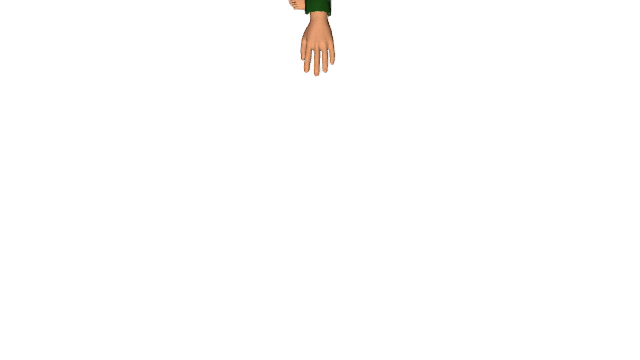
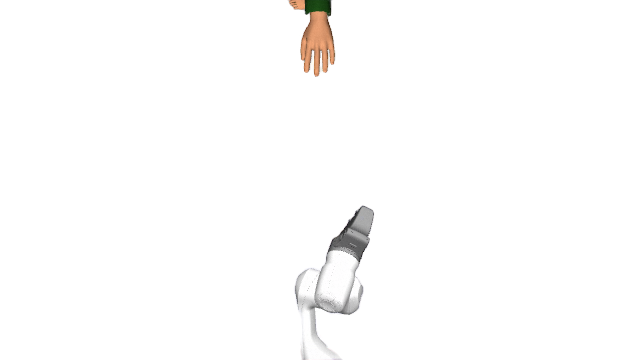
dirty transform updated

Changed region(s): [[0.4375, 0.55, 0.5938, 1.0]]

diff --git a/ros_1/catkin_ws/src/my_package/src/test_dirty_tracking.py b/ros_1/catkin_ws/src/my_package/src/test_dirty_tracking.py
@@ -2,12 +2,15 @@
 import rospy
 from sensor_msgs.msg import Image, CameraInfo
 from std_msgs.msg import UInt32MultiArray, Float32MultiArray
+import tf2_ros
+import tf
+
 import os
 import numpy as np
 import matplotlib.pyplot as plt
 import cv2 as cv
 
-from utils import image2array, image_file_to_tensor, transform_pixels2camera
+from utils import transform_pixels2camera, transform_points
 
 # OpenCV bridge for image messages
 from cv_bridge import CvBridge
@@ -19,8 +22,11 @@ MATTED_TOPIC = '/image_raw_matted'
 # Topic on which publish dirty coordinates
 DIRTY2D_TOPIC = '/dirty2d'
 DIRTY3D_IMG2CAMERA_TOPIC = '/dirty2camera'
+DIRTY3D_IMG2WORLD_TOPIC = '/dirty2world'
+
 pub_dirty2d = rospy.Publisher(DIRTY2D_TOPIC, UInt32MultiArray, queue_size=10)
 pub_dirty3d_img2camera = rospy.Publisher(DIRTY3D_IMG2CAMERA_TOPIC, Float32MultiArray, queue_size=10)
+pub_dirty3d_img2world = rospy.Publisher(DIRTY3D_IMG2WORLD_TOPIC, Float32MultiArray, queue_size=10)
 
 OUTPUTS_DIR = os.path.join('..', 'outputs')
 
@@ -33,6 +39,8 @@ def callback(image):
 	bgra_cv = bridge.imgmsg_to_cv2(image, desired_encoding='passthrough')
 	
 	alpha = bgra_cv[:,:,-1]
+	cv.imwrite(os.path.join(OUTPUTS_DIR, 'alpha_image_raw_matted.jpg'), alpha)
+
 	# 2D coordinates where we need to clean up. 
 	# The array has shape (h, w) while we need x, y coordinates,so we have to swap axes
 	dirty_2d = np.argwhere((alpha != 0)).astype('int32')
@@ -41,11 +49,33 @@ def callback(image):
 	
 	# Getting camera info
 	camera_info = rospy.wait_for_message('/camera_info', CameraInfo)
-	d = 1.55 - 0.1  # Distance of camera from table: height(camera) - height(table)
+	depth = 1.55 - 0.1  # Distance of camera from table: height(camera) - height(table)
 
 	# Transforming 2D dirty pixels to 3D coordinates w.r.t. camera
-	dirty2camera = transform_pixels2camera(pixels=dirty_2d, camera_info=camera_info, distance=d)
+	dirty2camera = transform_pixels2camera(pixels=dirty_2d, camera_info=camera_info, depth=depth)
 	print(f"3D coordinates of pixels w.r.t. camera frame ({dirty2camera.shape}):\n", dirty2camera)
+
+	# Transforming 3D coordinates w.r.t. world
+	try:
+		# Once the transform listener is created, it starts receiving tf2 transformations over the wire, 
+		# and buffers them for up to 10 seconds
+		tf2_buffer = tf2_ros.Buffer()
+		tf2_listener = tf2_ros.TransformListener(tf2_buffer)
+
+		# Getting camera w.r.t. world as TransformStamped.transform
+		tf2_camera2world =  tf2_buffer.lookup_transform(
+			'camera_link', 'world', time=rospy.Time(0), timeout=rospy.Duration(2)).transform
+
+		print("- Getting transformation of camera frame w.r.t. world...\n", tf2_camera2world)
+		translation, quaternions = tf2_camera2world.translation, tf2_camera2world.rotation
+
+		# Transforming 3D coordinates w.r.t. world: tf implementation
+		dirty2world = transform_points(points=dirty2camera, ref_frame='world', init_frame='camera_link')
+		print(f"3D coordinates of pixels w.r.t. world frame ({dirty2world.shape}):\n", dirty2world)
+
+	except Exception as e:
+		print("WARNING! Can't compute the transformation of dirty w.r.t. world!\n", e)
+	
 
 	try:
 		# Reading and publishing dirty coordinates
@@ -57,11 +87,17 @@ def callback(image):
 		pub_dirty2d.publish(msg)
 		print("Dirty 2D coordinates published successfully on ", DIRTY2D_TOPIC)
 
-		# Publishing 3D coordinates
+		# Publishing 3D coordinates w.r.t. camera
 		msg = Float32MultiArray()
 		msg.data = dirty2camera.tolist()
 		pub_dirty3d_img2camera.publish(msg)
 		print("Dirty 3D coordinates w.r.t. camera frame successfully published on ", DIRTY3D_IMG2CAMERA_TOPIC)
+
+		# Publishing 3D coordinates w.r.t. world
+		msg = Float32MultiArray()
+		msg.data = dirty2world.tolist()
+		pub_dirty3d_img2world.publish(msg)
+		print("Dirty 3D coordinates w.r.t. camera frame successfully published on ", DIRTY3D_IMG2WORLD_TOPIC)
 
 
 		print("-----------------------------------")

diff --git a/ros_1/catkin_ws/src/my_package/src/utils.py b/ros_1/catkin_ws/src/my_package/src/utils.py
@@ -4,6 +4,10 @@ import numpy as np
 import torch
 from torchvision.transforms.functional import to_pil_image, to_tensor
 
+import rospy
+import tf
+from geometry_msgs.msg import PointStamped
+
 
 def image_file_to_tensor(path_to_file, precision=torch.float32, device='cpu'):
     # Read the image
@@ -37,7 +41,7 @@ def image2array(image, image_type='rgb'):
     return output
 
 
-def transform_pixels2camera(pixels, camera_info, distance):
+def transform_pixels2camera(pixels, camera_info, depth):
     """
     #############################################################
     # Method to transform 2D image pixels into 3D w.r.t. camera #
@@ -52,7 +56,8 @@ def transform_pixels2camera(pixels, camera_info, distance):
     K = np.array(camera_info.K, dtype=np.float32).reshape((3, 3))			# Intrinsic camera matrix
     R = np.array(camera_info.R, dtype=np.float32).reshape((3, 3))		    # Rotation matrix
     P = np.array(camera_info.P, dtype=np.float32).reshape((3, 4))			# Projection camera matrix
-    f =  np.array([K[0][0], K[1][1]], dtype=np.float32)			            # Focal lenght [fx, fy]
+    f = (K[0][0], K[1][1])  		                                        # Focal lenght [fx, fy]
+    c = (K[0][2], K[1][2])                                                  # Principal point [cx, cy]
     t = np.array([P[0][3], P[1][3], P[2][3]], dtype=np.float32)	    		# Translation [tx, ty, tz]
 
     # Homogeneous pixel coordinates
@@ -74,16 +79,40 @@ def transform_pixels2camera(pixels, camera_info, distance):
         unit_vector = vector / np.linalg.norm(vector)
         # Point scaled along this ray
         p3D = cam_world + distance * unit_vector
+        output.append(p3D.tolist())
         """
 
-        ### Simpler and more accurate approach: Deproject the pixels into 3D points in the camera frame
-        ### using the camera matrix and multiply z by depth
-        # Inspired by: https://stackoverflow.com/questions/50596347/measure-real-size-of-object-with-calibrated-camera-opencv-c
-        pc = np.linalg.inv(K) @ p 
-        pc[2] = pc[2] * distance
-        p3D = pc
-        
-        output.append(p3D.tolist())
+        ### Simpler and more accurate approach, knowing the exact depth
+        # Inspired by https://github.com/IntelRealSense/librealsense/wiki/Projection-in-RealSense-SDK-2.0
+        X = (p[0] - c[0])/f[0] * depth
+        Y = (p[1] - c[1])/f[1] * depth
+        p3D = [X, Y, depth]
+        output.append(p3D)
+
     output = np.array(output, dtype=np.float32)
 
+    return output
+
+
+def transform_points(points, ref_frame, init_frame):
+    # WARNING! rospy.init_node() must be called before this function!
+
+    tf_listener = tf.TransformListener()
+    tf_camera2world = tf_listener.waitForTransform('world', 'camera_link', rospy.Time(0), rospy.Duration(5))
+
+    transformed = []
+    for p in points:
+        point = PointStamped()
+        point.header.frame_id = 'camera_link'
+        point.header.stamp = rospy.Time()
+
+        point.point.x = p[0]
+        point.point.y = p[1]
+        point.point.z = p[2]
+
+        tp = tf_listener.transformPoint('world', point).point
+
+        transformed.append([tp.x, tp.y, tp.z])
+
+    output = np.array(transformed, dtype=np.float32)
     return output

diff --git a/ros_1/catkin_ws/src/my_package/src/test_camera.py b/ros_1/catkin_ws/src/my_package/src/test_camera.py
@@ -52,7 +52,7 @@ def callback(image):
 	bgr = image_file_to_tensor(os.path.join(TEST_IMAGES_DIR, "background.png"))
 	# The following input is ONLY FOR BACKGROUND MATTING TESTING!
 	# src = image_file_to_tensor(os.path.join(TEST_IMAGES_DIR, 'dirty_0.png'))
-	# The followin input is for PRODUCTION USE
+	# The following input is for PRODUCTION USE
 	src = image_file_to_tensor(path_to_image_raw)
 	
 	# Inference
